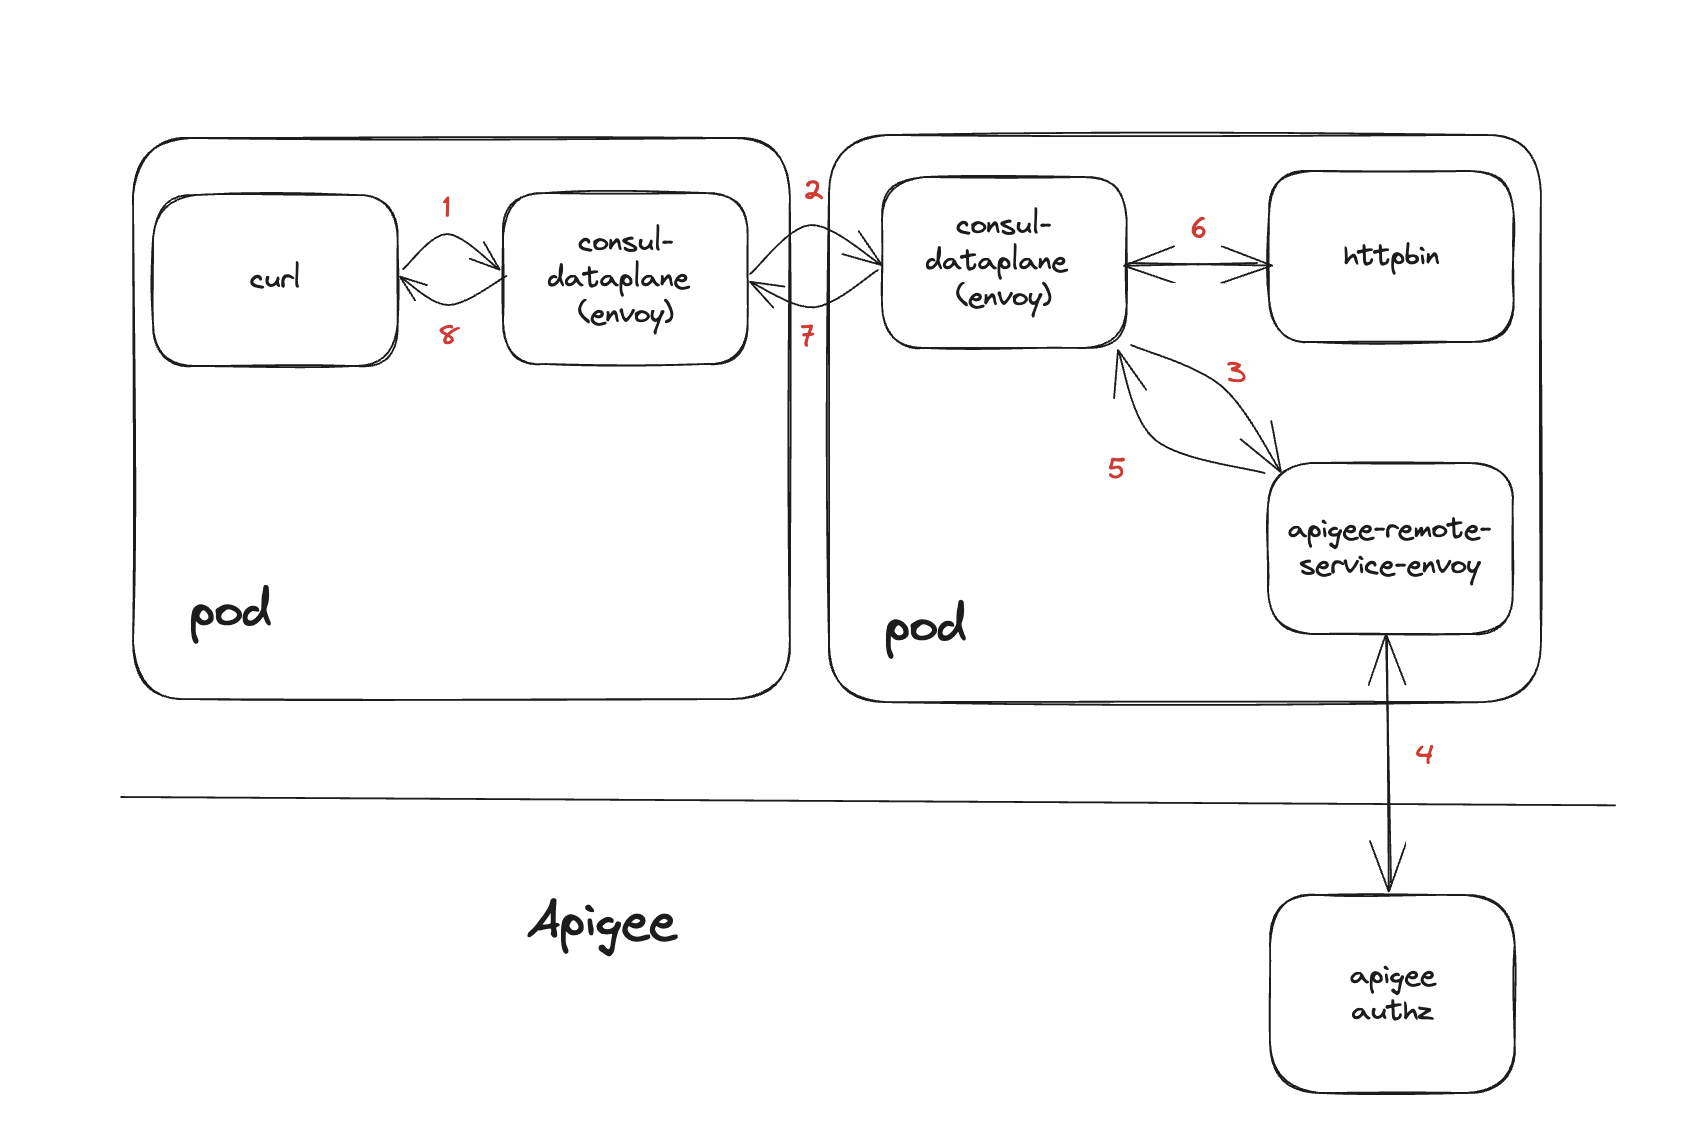
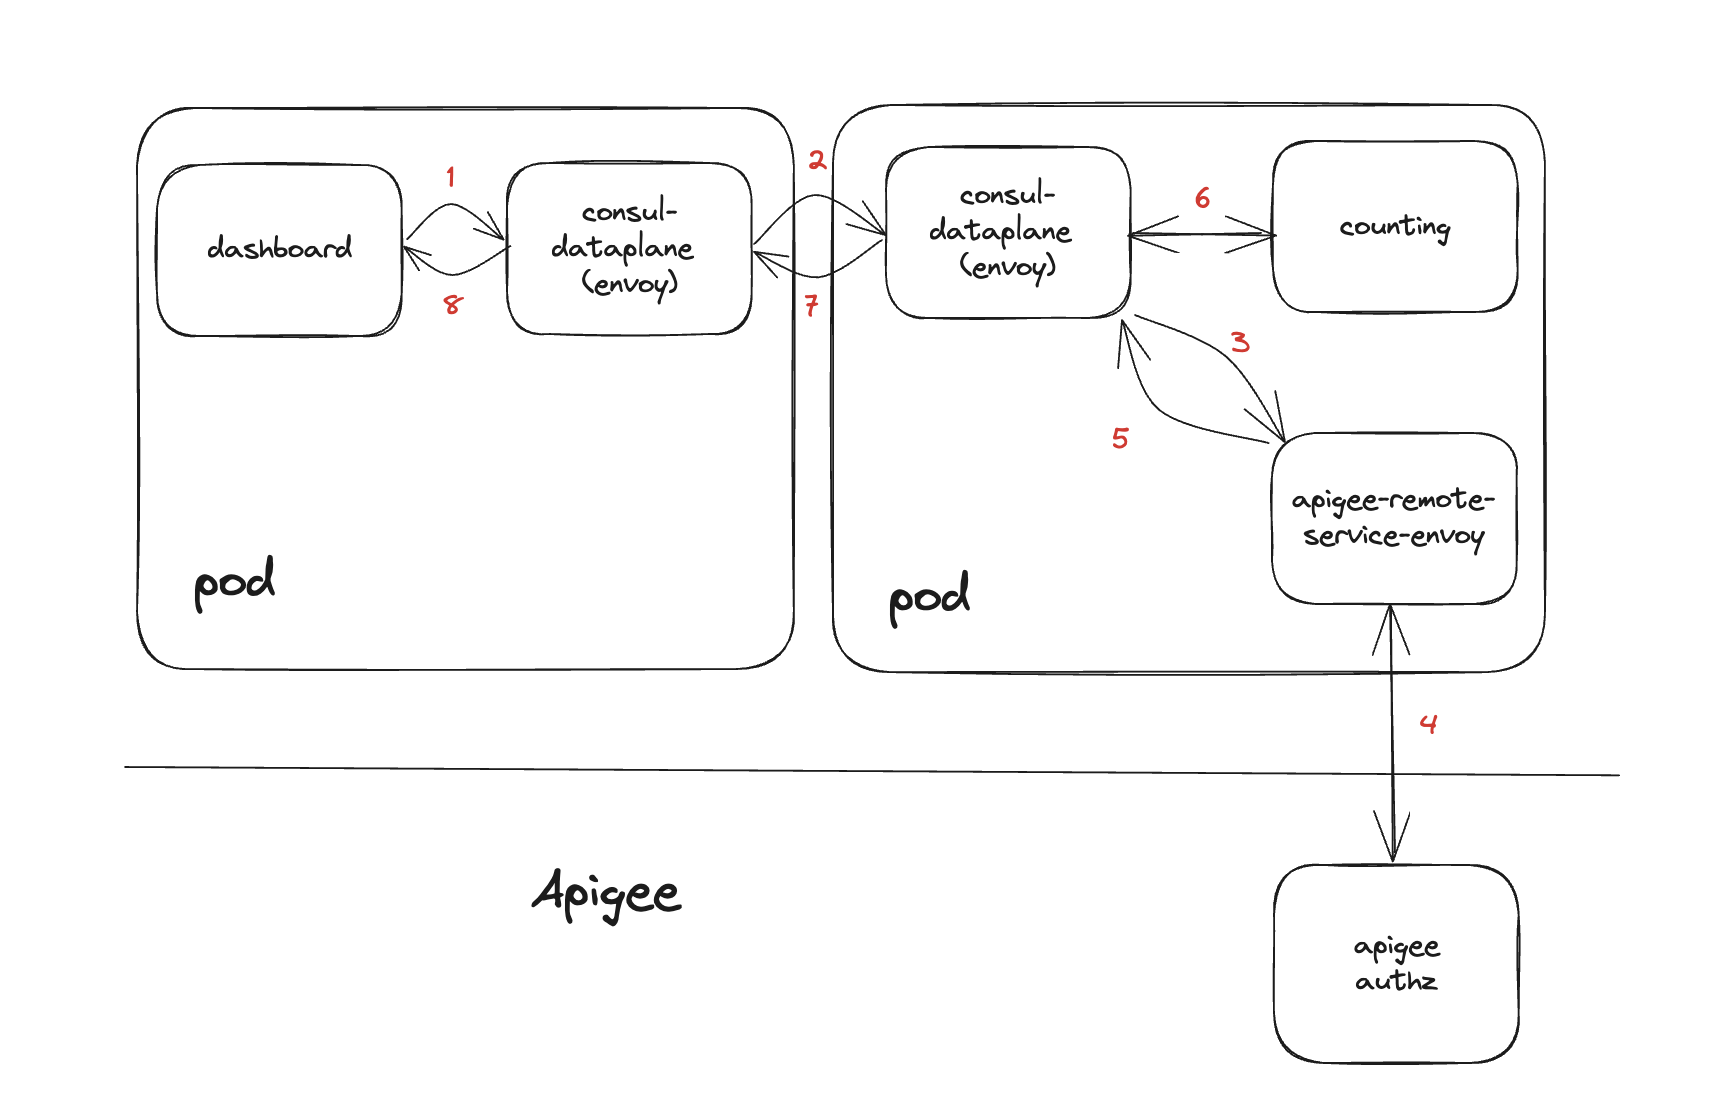
dashboard and counting example working

diff --git a/README.md b/README.md
@@ -87,41 +87,20 @@ Following instructions are taken from [this guide](https://cloud.google.com/apig
 infra/apigee-remote.sh
 ```
 
-* Create consul intention between curl and httpbin
+* Create consul intention between counting and dashboard services
 
 ```sh
 kubectl apply -f consul/intentions.yaml
 ```
-* Ping the httpbin service from curl service
+* Expose the dashboard service and test the connection; visit [localhost:9002](localhost:9002)
 
 ```sh
-kubectl exec -it deployment/curl -- /bin/sh
-curl -i httpbin.default.svc.cluster.local/headers
+kubectl port-forward svc/dashboard 9002:9002
 ```
 
-* The response should be HTTP/1.1 200 OK
+* The services should be connected
 
-```sh
-HTTP/1.1 200 OK
-server: envoy
-date: Thu, 99 XX 20XX XX:XX:XX GMT
-content-type: application/json
-content-length: 2225
-access-control-allow-origin: *
-access-control-allow-credentials: true
-x-envoy-upstream-service-time: 28
-
-{
-    "headers": {
-        "Accept": "*/*", 
-        "Host": "httpbin.default.svc.cluster.local", 
-        "User-Agent": "curl/8.2.0", 
-        "X-Envoy-Auth-Failure-Mode-Allowed": "true", 
-        "X-Envoy-Expected-Rq-Timeout-Ms": "15000", 
-        "X-Forwarded-Client-Cert": "--cert-redacted--"
-    }
-}
-```
+![connected](images/connected.png)
 
 ### Apply the ext_authz filter
 
@@ -137,60 +116,28 @@ kubectl apply -f consul/ext_authz.yaml
 kubectl port-forward deployment/httpbin 19000
 ```
 
-* Ping the httpbin service from curl service again
+* Expose the dashboard service and test the connection again; visit [localhost:9002](localhost:9002)
 
 ```sh
-kubectl exec -it deployment/curl -- /bin/sh
-curl -i httpbin.default.svc.cluster.local/headers
+kubectl port-forward svc/dashboard 9002:9002
 ```
 
-* The response should be HTTP/1.1 403 Forbidden
+* The services should be disconnected
 
-```sh
-HTTP/1.1 403 Forbidden
-date: Thu, 99 XX 20XX XX:XX:XX GMT
-server: envoy
-content-length: 0
-x-envoy-upstream-service-time: 3
-```
+![disconnected](images/disconnected.png)
 
 * After using the API key generated from Apigee [(follow guide here)](https://cloud.google.com/apigee/docs/api-platform/envoy-adapter/v2.0.x/operation#how-to-obtain-an-api-key) and pinging again the response should have Apigee headers
 
 > **_NOTE:_** There might be a delay after creating the API key of ~2 mins. 
 
 ```sh
-curl -i httpbin.default.svc.cluster.local/headers -H "x-api-key: developer_client_key_goes_here"
+export KEY="PASTE_YOUR_KEY_HERE"
+sed 's@APIGEE_API_KEY@'"$KEY"'@' app/dashboard.yaml
+kubectl apply -f app/dashboard.yaml
 ```
 
-```sh
-HTTP/1.1 200 OK
-server: envoy
-date: Thu, 99 XX 20XX XX:XX:XX GMT
-content-type: application/json
-content-length: 2727
-access-control-allow-origin: *
-access-control-allow-credentials: true
-x-envoy-upstream-service-time: 22
-{
-    "headers": {
-        "Accept": "*/*", 
-        "Host": "httpbin.default.svc.cluster.local", 
-        "User-Agent": "curl/8.2.0", 
-        "X-Api-Key": "developer_client_key_goes_here", 
-        "X-Apigee-Accesstoken": "", 
-        "X-Apigee-Api": "httpbin.default.svc.cluster.local", 
-        "X-Apigee-Apiproducts": "httpbin-product", 
-        "X-Apigee-Application": "httpbin-app", 
-        "X-Apigee-Authorized": "true", 
-        "X-Apigee-Clientid": "developer_client_key_goes_here", 
-        "X-Apigee-Developeremail": "user@hashicorp.com", 
-        "X-Apigee-Environment": "env", 
-        "X-Apigee-Organization": "GCP_ORG_ID", 
-        "X-Apigee-Scope": "", 
-        "X-Envoy-Expected-Rq-Timeout-Ms": "15000",
-        "X-Forwarded-Client-Cert": "--cert-redacted--"
-    }
-}
+![connected](images/connected_again.png)
+
 ```
 
 ### Clean up
